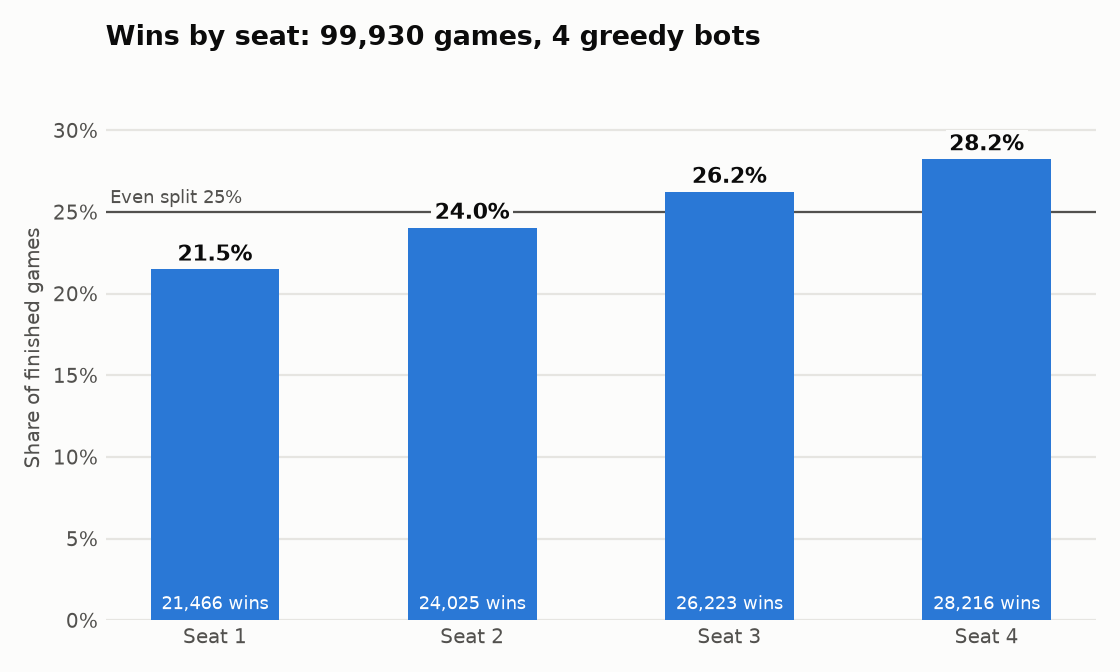
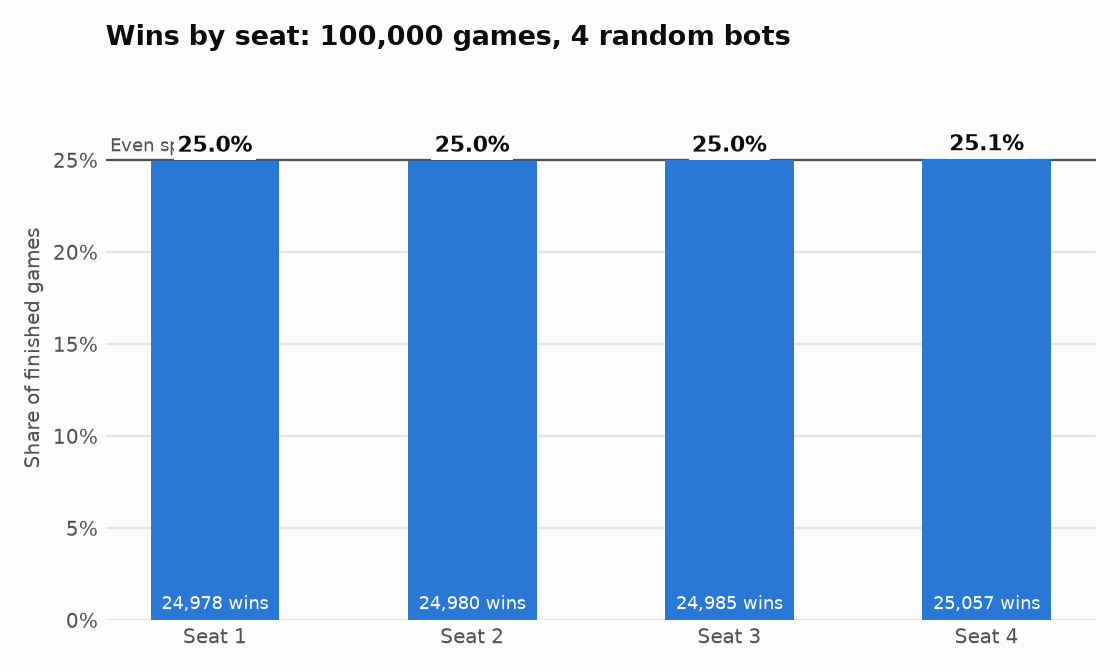
Make the random model the default; free-form trade offers
- RandomBot is pure chance: uniform picks among legal actions, with
  "propose a trade" as one more option. Proposals are random bundles of
  any size; responses are coin flips
- The simulator defaults to the random model; --bot greedy still works
- GreedyBot no longer follows a fixed sweetening ladder; it picks at
  random among offers it would be happy with

100,000 random games on 16 workers: 1,245 games/s, 291 turns and 144
player trades per game, wins by seat 25.0 / 25.0 / 25.0 / 25.1 percent.
124 tests pass.

Claude-Session: https://claude.ai/code/session_01WC5th3RkuK2U1LpzMSe6fm

diff --git a/backend/src/engine/bots.py b/backend/src/engine/bots.py
@@ -27,12 +27,50 @@ _DEV_COST = (0, 0, 1, 1, 1)
 
 
 class RandomBot:
-    """Picks uniformly among legal actions. Games are long; useful as a baseline."""
+    """Pure chance: every decision is a uniform random pick among what the rules allow.
 
-    lists_offers = True
+    On its turn it treats "propose a trade" as one more option alongside its
+    other legal actions. A proposal is a random bundle of its own cards for a
+    random bundle of one opponent's cards, of any size. It accepts or refuses
+    other players' offers on a coin flip.
+    """
+
+    lists_offers = False  # it builds its own offers
 
     def choose(self, game, actions):
-        return actions[game.rng.randrange(len(actions))]
+        rng = game.rng
+        count = len(actions)
+        if game.phase == MAIN and game.offers_left and game.player_trading:
+            pick = rng.randrange(count + 1)
+            if pick < count:
+                return actions[pick]
+            offer = self._random_offer(game, rng)
+            if offer:
+                return offer
+        return actions[rng.randrange(count)]
+
+    @staticmethod
+    def _random_offer(game, rng):
+        p = game.current
+        hand = game.res[p]
+        if not any(hand):
+            return 0
+        others = [q for q in range(game.n) if q != p and any(game.res[q])]
+        if not others:
+            return 0
+        theirs = game.res[others[rng.randrange(len(others))]]
+
+        give = [rng.randrange(hand[r] + 1) for r in range(5)]
+        if not any(give):
+            held = [r for r in range(5) if hand[r]]
+            give[held[rng.randrange(len(held))]] = 1
+        get = [0 if give[r] else rng.randrange(theirs[r] + 1) for r in range(5)]
+        if not any(get):
+            wanted = [r for r in range(5) if not give[r] and theirs[r]]
+            if not wanted:
+                return 0
+            get[wanted[rng.randrange(len(wanted))]] = 1
+        return game.try_offer(give, get)
 
 
 class GreedyBot:
@@ -42,10 +80,9 @@ class GreedyBot:
     settle), development card, then trades toward its next purchase: first
     with other players, then with the bank.
 
-    Its offers start generous to itself and get sweeter. It asks for
-    everything it is missing in one bundle, first for an equal number of spare
-    cards and then adding more, each offer a superset of the last, up to two
-    cards for one. Then it asks for single cards, paying up to three.
+    Its offers follow no fixed order. Each time, it picks at random among the
+    offers it would be happy with: some or all of what it is missing, for up to
+    twice as many of its spare cards.
 
     It accepts a trade that moves it closer to its own next purchase, or that
     leaves it no further away with more cards in hand, unless the proposer is
@@ -126,38 +163,31 @@ class GreedyBot:
         total_spare = sum(spare)
         if not total_spare:
             return None
-        need = sum(missing)
+        rng = game.rng
         try_offer = game.try_offer
-        order = sorted(range(5), key=lambda r: -spare[r])
-
-        # Everything missing at once. Start one-for-one and keep adding spare
-        # cards, so each offer is a superset of the last, up to two-for-one.
-        for size in range(need, min(total_spare, 2 * need) + 1):
+        spare_types = [r for r in range(5) if spare[r]]
+        missing_types = [r for r in range(5) if missing[r]]
+        for _ in range(4):  # a few tries at an offer that has not been turned down
+            get = [0] * 5
+            if rng.randrange(2):
+                get = missing[:]
+            else:
+                t = missing_types[rng.randrange(len(missing_types))]
+                get[t] = 1 + rng.randrange(missing[t])
+            asked = sum(get)
+            size = min(total_spare, asked + rng.randrange(asked + 1))
             give = [0] * 5
             left = size
-            for r in order:
-                take = spare[r] if spare[r] < left else left
-                give[r] = take
-                left -= take
-                if not left:
+            while left:
+                r = spare_types[rng.randrange(len(spare_types))]
+                if give[r] < spare[r] and not get[r]:
+                    give[r] += 1
+                    left -= 1
+                elif all(give[x] >= spare[x] or get[x] for x in spare_types):
                     break
-            offer = try_offer(give, missing)
+            offer = try_offer(give, get)
             if offer:
                 return offer
-
-        # One missing card at a time from the biggest pile, paying up to three.
-        if need > 1:
-            biggest = order[0]
-            for count in range(1, min(spare[biggest], 3) + 1):
-                give = [0] * 5
-                give[biggest] = count
-                for t in range(5):
-                    if missing[t] and t != biggest:
-                        get = [0] * 5
-                        get[t] = 1
-                        offer = try_offer(give, get)
-                        if offer:
-                            return offer
         return None
 
     def _roll(self, game, actions):

diff --git a/backend/tests/test_engine.py b/backend/tests/test_engine.py
@@ -450,25 +450,43 @@ def test_greedy_bots_trade_with_each_other():
     assert summarize(results, 4)["avg_player_trades"] > 0
 
 
-def test_greedy_bot_offers_a_bundle_for_everything_it_is_missing():
+def test_greedy_bot_only_offers_spare_cards_for_cards_it_is_missing():
     # Player 0 has a settlement to upgrade: a city costs 3 ore and 2 grain.
-    game = _trading_game([cards(wool=6, lumber=2), cards(ore=3, grain=2), EMPTY, EMPTY])
-    offer = GreedyBot().choose(game, game.legal_actions(False))
-    assert kind_of(offer) == A_OFFER
-    give, get = decode_offer(offer)
-    assert get == cards(ore=3, grain=2)
-    assert give == cards(wool=5)
+    for seed in range(20):
+        game = _trading_game([cards(wool=6, lumber=2), cards(ore=3, grain=2), EMPTY, EMPTY], seed=seed)
+        offer = GreedyBot().choose(game, game.legal_actions(False))
+        assert kind_of(offer) == A_OFFER
+        give, get = decode_offer(offer)
+        assert give[ORE] == give[GRAIN] == 0
+        assert all(get[r] <= need for r, need in enumerate(cards(ore=3, grain=2)))
+        assert 1 <= sum(get) <= sum(give) <= 2 * sum(get)
 
 
-def test_greedy_bot_sweetens_a_rejected_offer_with_a_superset():
-    game = _trading_game([cards(wool=6, lumber=2), cards(ore=3, grain=2), EMPTY, EMPTY])
-    bot = GreedyBot()
-    first = bot.choose(game, game.legal_actions(False))
-    game.apply(first)
-    game.apply(action(A_REJECT))
-    second = bot.choose(game, game.legal_actions(False))
-    assert kind_of(second) == A_OFFER
-    give_1, get_1 = decode_offer(first)
-    give_2, get_2 = decode_offer(second)
-    assert get_2 == get_1
-    assert all(b >= a for a, b in zip(give_1, give_2)) and sum(give_2) == sum(give_1) + 1
+def test_random_bot_proposes_legal_trades_of_any_size():
+    sizes = set()
+    for seed in range(300):
+        game = _trading_game([cards(brick=4, wool=3), cards(ore=5, grain=2), cards(lumber=3), EMPTY], seed=seed)
+        act = RandomBot().choose(game, game.legal_actions(False))
+        if kind_of(act) == A_OFFER:
+            give, get = decode_offer(act)
+            assert game.can_offer(give, get)
+            sizes.add(sum(give) + sum(get))
+    assert len(sizes) > 5  # many different sizes, not a fixed shape
+    assert max(sizes) > 4
+
+
+@pytest.mark.parametrize("seed", range(10))
+def test_random_games_with_free_trading_finish_and_keep_invariants(seed):
+    winner, turns, move, points, trades = play_game_stats(seed, bot="random")
+    assert winner >= 0
+    assert trades > 0
+    game = Game(4, seed=seed)
+    bot = RandomBot()
+    steps = 0
+    while not game.done:
+        game.apply(bot.choose(game, game.legal_actions(bot.lists_offers)))
+        steps += 1
+        if steps % 50 == 0:
+            check_invariants(game)
+    check_invariants(game)
+    assert game.winner == winner

diff --git a/backend/src/engine/simulate.py b/backend/src/engine/simulate.py
@@ -23,13 +23,13 @@ OTHER_MOVE = "Other"
 POINT_SOURCES = ("Settlements", "Cities", "Victory point cards", "Longest Road", "Largest Army")
 
 
-def play_game(seed, num_players=4, bot="greedy", max_turns=2000, dev_before_roll=True, player_trading=True, max_offers=None):
+def play_game(seed, num_players=4, bot="random", max_turns=2000, dev_before_roll=True, player_trading=True, max_offers=None):
     """Play one full game. Returns (winner, turns, final points per player)."""
     game, _ = _run(seed, num_players, bot, max_turns, dev_before_roll, player_trading, max_offers)
     return game.winner, game.turn, [game.victory_points(p) for p in range(num_players)]
 
 
-def play_game_stats(seed, num_players=4, bot="greedy", max_turns=2000, dev_before_roll=True, player_trading=True, max_offers=None):
+def play_game_stats(seed, num_players=4, bot="random", max_turns=2000, dev_before_roll=True, player_trading=True, max_offers=None):
     """Play one game and describe how it was won.
 
     Returns (winner, turns, winning move, points by source, player trades),
@@ -69,7 +69,7 @@ def _play_batch(args):
     return [play_game_stats(seed, num_players, bot, max_turns, dev_before_roll, player_trading, max_offers) for seed in seeds]
 
 
-def simulate(games, num_players=4, bot="greedy", workers=1, seed=0, max_turns=2000, dev_before_roll=True, player_trading=True, max_offers=None):
+def simulate(games, num_players=4, bot="random", workers=1, seed=0, max_turns=2000, dev_before_roll=True, player_trading=True, max_offers=None):
     """Play ``games`` games. Returns one play_game_stats tuple per game."""
     seeds = range(seed, seed + games)
     if workers <= 1:
@@ -205,7 +205,8 @@ def main():
     parser = argparse.ArgumentParser(description="Simulate Catan games")
     parser.add_argument("--games", type=int, default=1000)
     parser.add_argument("--players", type=int, default=4, choices=(2, 3, 4))
-    parser.add_argument("--bot", default="greedy", choices=sorted(BOTS))
+    parser.add_argument("--bot", default="random", choices=sorted(BOTS),
+                        help="random: pure chance (default); greedy: a simple strategy")
     parser.add_argument("--workers", type=int, default=1, help=f"processes to use (this machine has {os.cpu_count()})")
     parser.add_argument("--seed", type=int, default=0)
     parser.add_argument("--max-turns", type=int, default=2000)

diff --git a/README.md b/README.md
@@ -8,7 +8,7 @@ A Catan board simulator: a Python API that generates boards and a React app that
 
 ## What it does today
 
-- **Game engine:** plays complete games of Catan from setup to a 10-point win, with computer players that trade with each other, at about 130 games per second on one core with unlimited trading
+- **Game engine:** plays complete games of Catan from setup to a 10-point win, with every decision made by chance, at about 115 games per second on one core
 - **Board API:** generates a classic 19-hex board in the 3-4-5-4-3 layout and serves it as JSON from FastAPI
 - **Web app:** renders the board as SVG in the browser, with red 6s and 8s and the robber starting on the desert
 
@@ -24,28 +24,22 @@ uv run python -m src.engine.simulate --games 100000 --workers 16
 ```
 
 ```
-100000 games, 4 greedy bots, 16 worker(s)
-  time           68.12 s
-  speed          1,468 games/s
-  finished       99930 (99.9%)
-  avg turns      84
-  player trades  12.4 per game
-  wins by seat   1: 21.5%  2: 24.0%  3: 26.2%  4: 28.2%
+100000 games, 4 random bots, 16 worker(s)
+  time           80.32 s
+  speed          1,245 games/s
+  finished       100000 (100.0%)
+  avg turns      291
+  player trades  143.9 per game
+  wins by seat   1: 25.0%  2: 25.0%  3: 25.0%  4: 25.1%
 ```
 
-That run was on a 16-core Windows desktop, with unlimited trading between players. One core does about 130 games per second. Trading is the main cost, so there are two faster settings:
+That run was on a 16-core Windows desktop. One core does about 115 games per second.
 
-| Setting | Games per second (16 workers) | Turns per game |
-|---|---|---|
-| Unlimited offers (default) | 1,468 | 84 |
-| `--max-offers 3` | 2,029 | 85 |
-| `--no-player-trading` | 3,472 | 101 |
+By default every player is the random model: the rules engine plus chance, with no strategy. Each decision is a uniform random pick among what the rules allow, including which trades to propose and whether to accept them. Under pure chance no seat has an advantage.
 
-Add `--plot ../docs` to save two charts. Later seats won more often with these bots:
+Add `--plot ../docs` to save two charts:
 
-![Wins by seat over 99,924 finished games](docs/wins_by_seat.png)
-
-Cities decided most games, and about a fifth ended on a victory point card:
+![Wins by seat over 100,000 games](docs/wins_by_seat.png)
 
 ![How games were won](docs/win_conditions.png)
 
@@ -59,20 +53,22 @@ Rules follow the official CATAN base game rulebook (2020 edition), including pla
 
 **Players:**
 
-- `greedy` builds the most valuable thing it can afford and trades toward its next purchase, with other players first and the bank second. It asks for everything it is missing in one bundle and adds cards to its offer each time it is turned down. It accepts a trade that brings its own next purchase closer. About one game in a thousand stalls and is stopped at the turn limit.
-- `random` picks any legal move. Games take about three times as many turns.
+- `random` (default) is pure chance. On its turn, proposing a trade is one more option alongside its other legal moves; a proposal is a random bundle of its own cards for a random bundle of one opponent's cards, of any size. It accepts or refuses offers on a coin flip.
+- `greedy` is a simple strategy, kept for comparison: it builds the most valuable thing it can afford and trades toward its next purchase. Games are about a third as long. Later seats win more often with it, and about one game in a thousand stalls at the turn limit.
+
+Options: `--bot greedy`, `--max-offers N` to cap trade offers per turn, `--no-player-trading` for bank and port trades only.
 
 **How it stays fast:** board geometry is computed once at import. Game state is flat lists of integers indexed by player, hex, node and edge. Actions are single integers. Games are seeded, so any game can be replayed exactly.
 
 Using it from Python:
 
 ```python
-from src.engine import Game, GreedyBot
+from src.engine import Game, RandomBot
 
 game = Game(num_players=4, seed=1)
-bot = GreedyBot()
+bot = RandomBot()
 while not game.done:
-    game.apply(bot.choose(game, game.legal_actions()))
+    game.apply(bot.choose(game, game.legal_actions(bot.lists_offers)))
 print(game.winner, game.turn)
 ```
 
